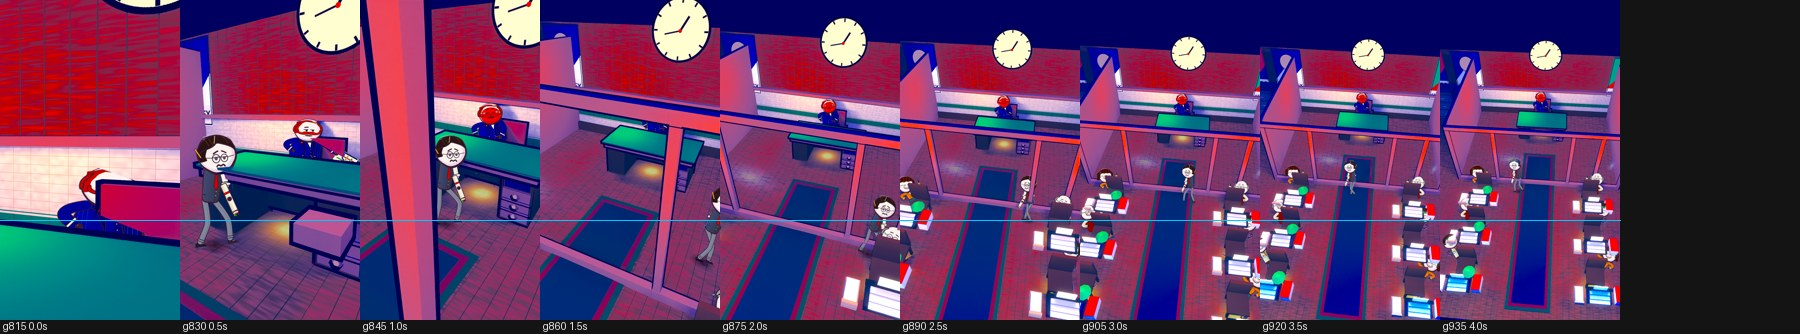
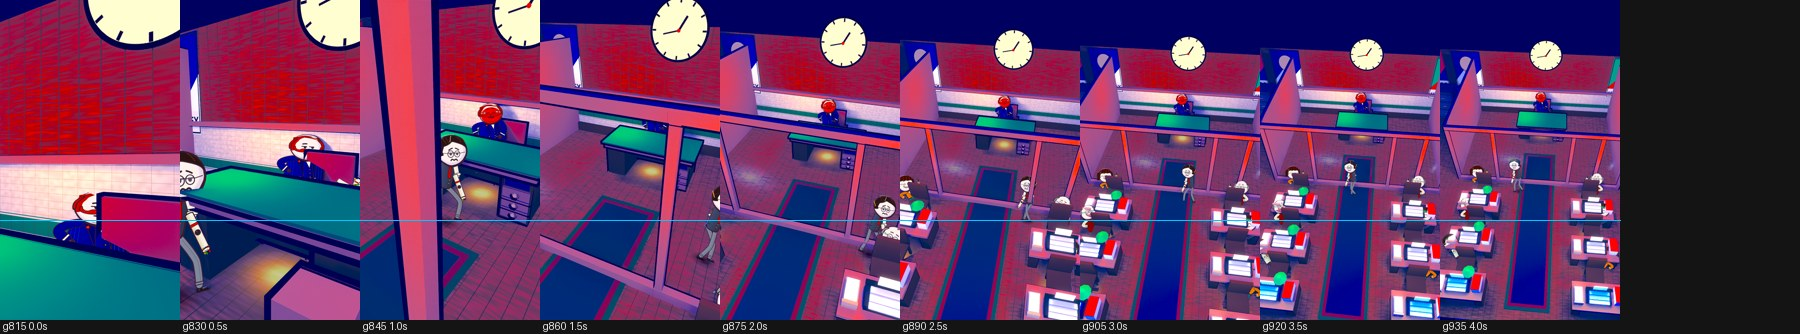
film22 team3: sharper close-up card (ppd 520) for s06 punch-in / s07 start
Claude-Session: https://claude.ai/code/session_017iwyCtw4NvG6rc1fTvHwKR

diff --git a/film/v3/film22/s06/shot.py b/film/v3/film22/s06/shot.py
@@ -38,7 +38,7 @@ def actors(g, T):
     elif t < 25.93: story, pose = 'off_wave_sheet', dict(mouth=cast22.talk_mouth((g // 3) * 3, 1.0))
     else: story, pose = 'off_eat_mime', dict(mouth=cast22.talk_mouth((g // 3) * 3, 1.0))
     c_, p_ = cast22.STORY22[story]; dy_ = p_.get('desk_y', 1.3)
-    ob = T.card(story, (OFF[0], OFF[1] + 1.0, 0.0), face_to=cam, tilt=0.0, pose=dict(desk=0, typewriter=0, **pose), shadow=False, rim='#9fb8ff')
+    ob = T.card(story, (OFF[0], OFF[1] + 1.0, 0.0), face_to=cam, tilt=0.0, pose=dict(desk=0, typewriter=0, **pose), shadow=False, rim='#9fb8ff', ppd=(520 if g >= 765 else 230))
     ob.location.z = PZ0 + 1.9 + dy_ - ob['anc']['head'][1]; ob['mounted'] = True        # seated on his chair behind the desk
     if story == 'off_laugh_back': ob.location.z += 0.06 * abs(math.sin(2 * math.pi * 3.0 * t))
     # Beck: hopeful with the roll, then deflated after the stamp

diff --git a/film/v3/film22/s07/shot.py b/film/v3/film22/s07/shot.py
@@ -40,7 +40,7 @@ def actors(g, T):
     story, pose = ('off_toss_drawer', dict(mouth='flat')) if g < g_of(28.08) else ('off_laugh_back', dict(mouth='flat'))
     c_, p_ = cast22.STORY22[story]; dy_ = p_.get('desk_y', 1.3)
     pp = dict(desk=0, typewriter=0, **pose)
-    ob = T.card(story, (OFF[0], OFF[1] + 1.0, 0.0), face_to=cam, pose=pp, shadow=False, rim='#9fb8ff')
+    ob = T.card(story, (OFF[0], OFF[1] + 1.0, 0.0), face_to=cam, pose=pp, shadow=False, rim='#9fb8ff', ppd=(520 if g <= 850 else 230))
     ob.location.z = PZ0 + 1.9 + dy_ - ob['anc']['head'][1]; ob['mounted'] = True        # seated on his chair behind the desk
     if story == 'off_laugh_back': ob.location.z += 0.06 * abs(math.sin(2 * math.pi * 3.0 * t))
     bx, by, dx, walking = beck_xy(g)

diff --git a/film/v3/film22/s07/QA_AUTO.md b/film/v3/film22/s07/QA_AUTO.md
@@ -1,7 +1,8 @@
-# QA_AUTO PASS  (take.mkv, 132 frames, 30.00 fps, g 815-946)
+# QA_AUTO FAIL  (take.mkv, 132 frames, 30.00 fps, g 815-946)
 
+## FAIL
+- suspected blur on 10 frames, e.g. g [815, 816, 817, 818, 819, 820, 821, 822, 823, 824]
 ## Notes
-- soft frames (check by eye; motion streak allowed 1-3 frames): g [815, 816, 817]
 - magenta share 0.0 %
 
 Phone sheet: phone_sheet.jpg (cyan line = caption band y 880). Judge legibility on it.

diff --git a/film/v3/film22/s06/QA_AUTO.md b/film/v3/film22/s06/QA_AUTO.md
@@ -1,7 +1,6 @@
 # QA_AUTO PASS  (take.mkv, 260 frames, 30.00 fps, g 571-830)
 
 ## Notes
-- pops outside planned cuts (check by eye): g [725, 726]
 - magenta share 0.0 %
 
 Phone sheet: phone_sheet.jpg (cyan line = caption band y 880). Judge legibility on it.
